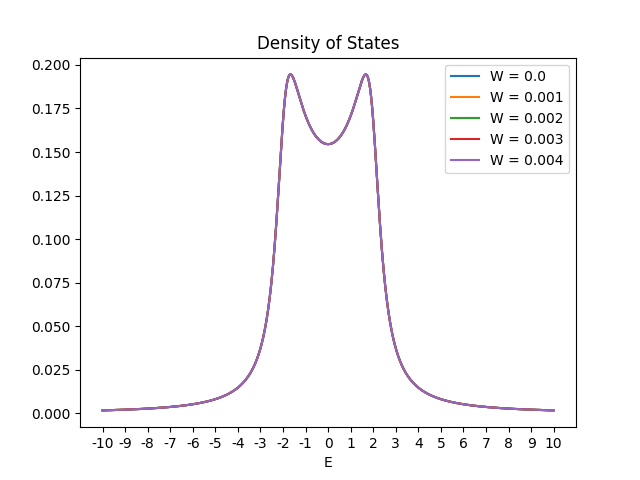
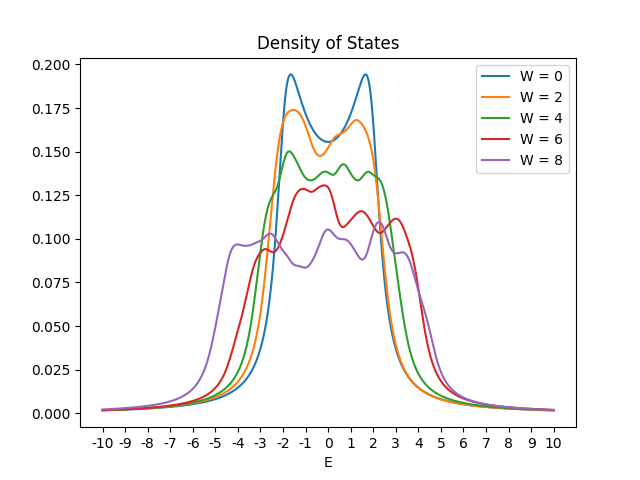
Some changes

diff --git a/data_gen/main.py b/data_gen/main.py
@@ -37,8 +37,8 @@ def main():
     
     W = 0
     for k in range (5):
-        W = k * 1e-3
-        H = generate_hamiltonian(1000, W)
+        W = k * 2
+        H = generate_hamiltonian(100, W)
     
         energies = eigen_values(H)
  
@@ -54,7 +54,7 @@ def main():
     plt.xlabel("E")
     plt.legend()
     plt.savefig("100-W-0-4e3.png")
-   # plt.show()
+    plt.show()
     
     #print(H)
 
